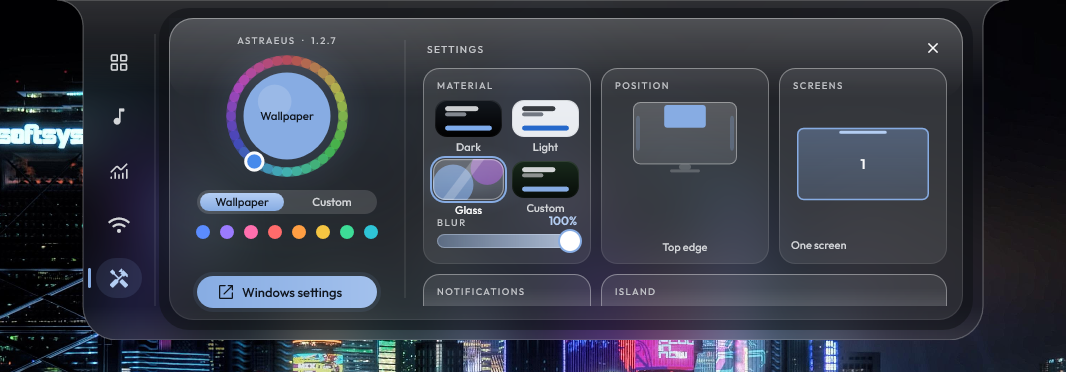
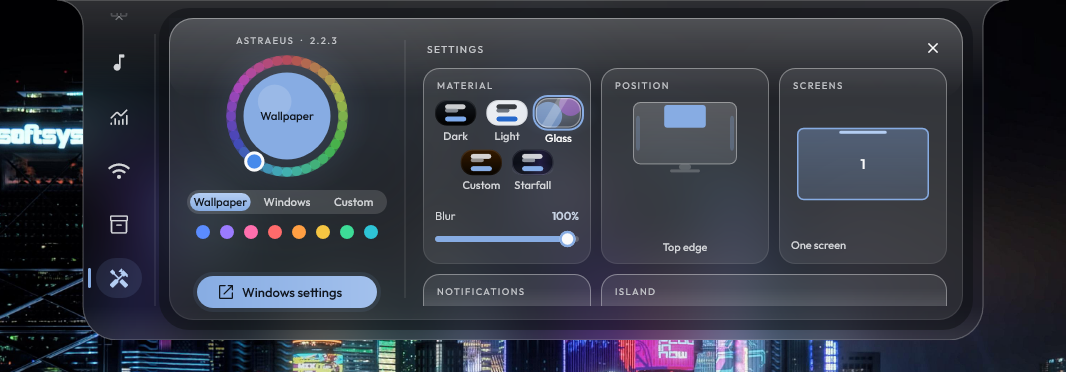
License under GPL-3.0, credit Nunito, fresh settings screenshot

diff --git a/README.md b/README.md
@@ -11,6 +11,7 @@
 [![Build](https://img.shields.io/github/actions/workflow/status/Icetist/Astraeus/release.yml?style=flat-square&label=build)](https://github.com/Icetist/Astraeus/actions/workflows/release.yml)
 ![Platform](https://img.shields.io/badge/platform-Windows%2010%20%7C%2011-0078D4?style=flat-square&logo=windows)
 ![C++20](https://img.shields.io/badge/C%2B%2B-20-00599C?style=flat-square&logo=cplusplus)
+![License](https://img.shields.io/badge/license-GPL--3.0-9F8CFF?style=flat-square)
 
 [Features](#-features) •
 [Screenshots](#-screenshots) •
@@ -169,7 +170,7 @@ That's light enough for 2 GB machines and entry-level Celeron and Pentium laptop
 | **Download** | One 1.9 MB file | Often 80 MB or more |
 | **Account or sign-in** | Never | Sometimes required |
 | **Telemetry** | None | Varies |
-| **Source code** | Open | Often closed |
+| **Source code** | Open, GPL-3.0 | Often closed |
 
 How it stays this light:
 
@@ -296,7 +297,12 @@ Yes. Set `AutoUpdate = false` in `astraeus.ini` and restart.
 
 - [Outfit](https://github.com/Outfitio/Outfit-Fonts) by the Outfit Project Authors, licensed under the [SIL Open Font License 1.1](./LICENSES/Outfit-OFL.txt).
 - [Material Symbols](https://github.com/google/material-design-icons) by Google, licensed under the [Apache License 2.0](./LICENSES/MaterialSymbols-Apache-2.0.txt).
+- [Nunito](https://github.com/googlefonts/nunito) by the Nunito Project Authors, licensed under the [SIL Open Font License 1.1](./LICENSES/Nunito-OFL.txt).
 - Synced lyrics from [LRCLIB](https://lrclib.net), NetEase Cloud Music and Kugou.
 
 ### 🧪 The testers
 **[Abrar Awwal](https://www.instagram.com/abrarr.png)**, **[ATK](https://github.com/atkftw)**, and **[Raisah Tazmeen Ahad](https://medium.com/@rtaix15)** ran every alpha and beta build before anyone else did. They hit the crashes, found the glitches and broke what could break, so that what reaches you doesn't.
+
+## 📄 License
+
+Copyright (C) 2026 Icetist. Licensed under the [GNU General Public License v3.0](./LICENSE): you may use, change and share it, and anything you share that is built on it must stay open under the same license.
